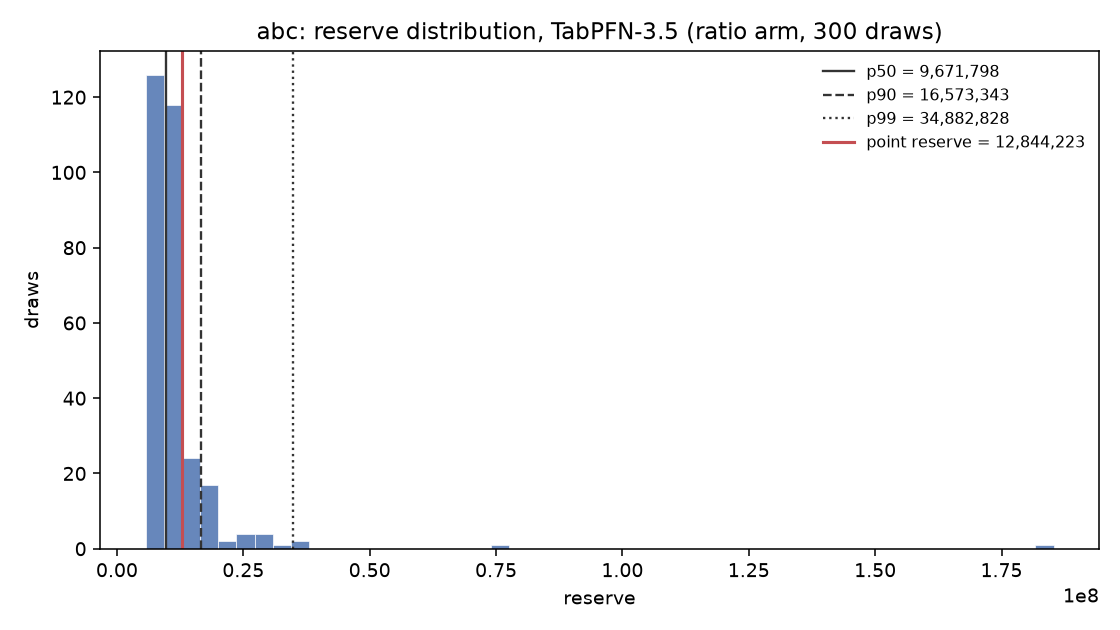
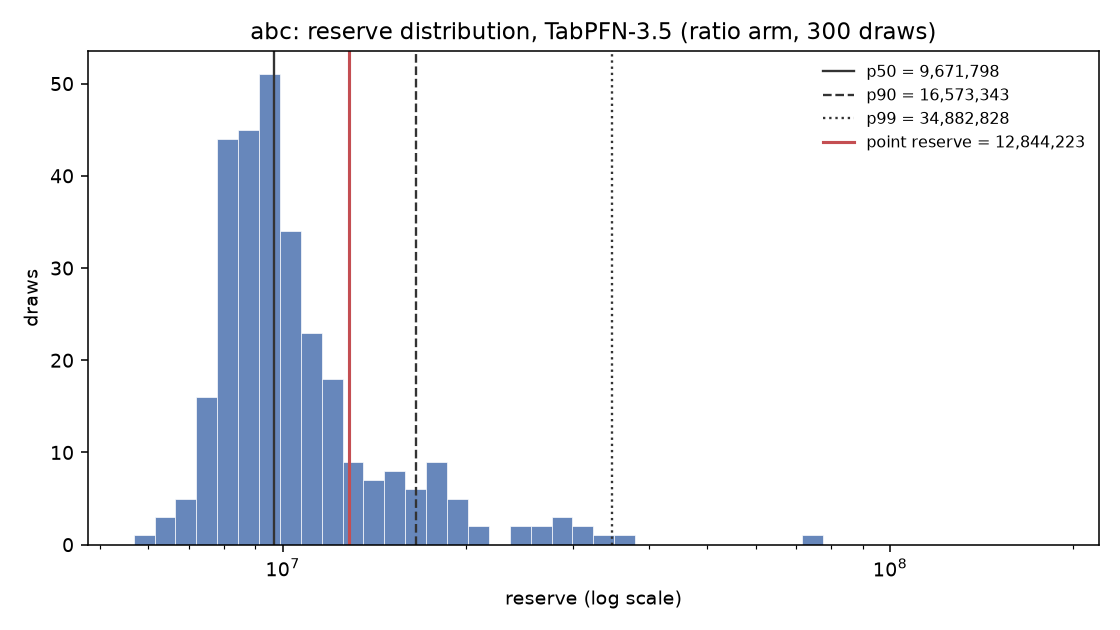
fix: plot the tail it actually has, and keep the draws
The bar-bins sampler revealed a tail that runs to 1.85e8 on the ratio arm -- the grid had
been stopping at 2.2e7 -- which made the linear-axis figure unreadable: every draw but a
handful squashed into the left tenth. The figure is now log-scaled and says so on the axis,
because an unlabelled log axis is its own kind of misrepresentation.

The draws themselves are now written beside the run record (`*-samples.npy`, 300 each). The
joint distribution is the artefact this project is about, and a figure that can only be
redrawn by re-fitting the model is a figure nobody will check. Verified by reading them back:
the ratio arm's p99 of 34,882,828 is carried by a single draw at 185,302,752 -- which is the
honest reason a 300-draw p99 should not be quoted to the pound.

Runs refreshed (numbers reproduce exactly), and `docs/readiness.md` gap 2 closed with the
measured effect rather than a claim that it was done.

Changed region(s): [[0.0, 0.0905, 0.9688, 0.9651], [0.2188, 0.0302, 0.8438, 0.0603], [0.9375, 0.9349, 1.0, 0.9651]]

diff --git a/src/tabpfn_reserving/cli.py b/src/tabpfn_reserving/cli.py
@@ -43,19 +43,35 @@ def percentile_table(samples: np.ndarray) -> dict:
 
 
 def figure(samples: np.ndarray, point: float, path: pathlib.Path, title: str) -> None:
-    """The picture the claim rests on: the reserve as a distribution, not a number."""
+    """The picture the claim rests on: the reserve as a distribution, not a number.
+
+    Log x-axis when the draws are positive, which they are for a reserve: the distribution is strongly
+    right-skewed and the point estimate is many times the median, so a linear axis crushes every draw but
+    the handful in the tail into one bar and hides the shape being claimed. The axis is labelled, because a
+    log axis that does not say so is a different kind of misrepresentation.
+    """
     import matplotlib
     matplotlib.use("Agg")
     import matplotlib.pyplot as plt
 
+    finite = samples[np.isfinite(samples)]
+    positive = finite[finite > 0]
+    use_log = len(positive) == len(finite) and len(positive) > 1
+
     fig, ax = plt.subplots(figsize=(8, 4.5))
-    ax.hist(samples, bins=50, color="#4C72B0", alpha=0.85, edgecolor="white", linewidth=0.4)
+    if use_log:
+        bins = np.logspace(np.log10(positive.min()), np.log10(positive.max()), 45)
+        ax.set_xscale("log")
+        ax.set_xlabel("reserve (log scale)")
+    else:
+        bins = 50
+        ax.set_xlabel("reserve")
+    ax.hist(finite, bins=bins, color="#4C72B0", alpha=0.85, edgecolor="white", linewidth=0.4)
     for q, style in ((0.5, "-"), (0.9, "--"), (0.99, ":")):
-        v = float(np.quantile(samples, q))
+        v = float(np.quantile(finite, q))
         ax.axvline(v, color="#333333", linestyle=style, linewidth=1.2,
                    label=f"p{int(q * 100)} = {v:,.0f}")
     ax.axvline(point, color="#C44E52", linewidth=1.6, label=f"point reserve = {point:,.0f}")
-    ax.set_xlabel("reserve")
     ax.set_ylabel("draws")
     ax.set_title(title)
     ax.legend(frameon=False, fontsize=8)
@@ -190,6 +206,13 @@ def main(argv: list[str] | None = None) -> int:
         print(f"  wrote {args.figure}")
     if args.json_out:
         args.json_out.parent.mkdir(parents=True, exist_ok=True)
+        # Keep the draws themselves, not just their percentiles: the joint distribution is the artefact
+        # this project is about, and a figure that can only be redrawn by re-fitting the model is a figure
+        # nobody will check.
+        if samples is not None:
+            samples_path = args.json_out.with_name(args.json_out.stem + "-samples.npy")
+            np.save(samples_path, samples)
+            result["samples_file"] = samples_path.name
         args.json_out.write_text(json.dumps(result, indent=2, default=str))
         print(f"  wrote {args.json_out}")
     return 0

diff --git a/docs/readiness.md b/docs/readiness.md
@@ -34,8 +34,10 @@
 
 1. **n = 11.** The coverage result (55/82/91/91 against nominal 50/75/90/95) is *indicative, not a result*.
    E3 over the fleet is what turns it into one, and it has not run. This is the largest scientific gap.
-2. **The intervals are interpolated** from a 15-level quantile grid. We now know the exact route — the bar
-   distribution's `borders` and `logits` — and have not taken it.
+2. ~~**The intervals are interpolated** from a 15-level quantile grid.~~ **Closed (#16, 510c0e8).** Draws now come
+   by inverse-CDF sampling from the bar distribution itself. It mattered: the ratio arm's p99 was understated
+   by 62% (21,525,679 → 34,882,828) because the grid clamped the tail. The point reserves are unchanged to
+   the pound, which is the check that the projection was never touched.
 3. **Timings are contaminated.** They were measured while other work ran on the same machine; E5 needs a
    clean run before any speed claim is made.
 4. **The point estimate loses to Chain Ladder** in both formulations tried. The fleet-as-context arm that
